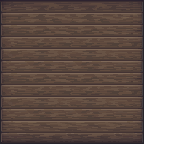
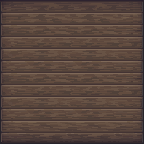
Wall art: vertical wall sprite + stretch-to-fill (parallel session)
These uncommitted edits were sitting in the working tree from a parallel
session focused on tavern art. Committed verbatim at the user's request
(`push everything`) — I did not author them.

  - wall.png: updated horizontal wood-plank texture
  - wall_v.png: new 90°-rotated vertical wall sprite
  - tavern.css: switch .wall-fill from repeat-x to stretch-to-fill; left
    and right walls now use wall_v.png so planks run along each side

(.DS_Store excluded — system junk.)

diff --git a/wayfarers-rest/client/src/styles/tavern.css b/wayfarers-rest/client/src/styles/tavern.css
@@ -46,11 +46,17 @@
 
 /* Wall surface — wood-plank wall texture that gives the wall its mass; the
    beam trim sits on top of it at the outer rim. Rendered behind the corners
-   and edges. Scaled to the wall band's height (--wall-depth) and tiled
-   horizontally so the planks stay at a believable scale. */
+   and edges. Stretched to fully fill each wall band (no tiling) so the
+   image's bright/transparent right edge can't show as gaps. Top and bottom
+   use the horizontal-plank wall.png; left and right use the 90°-rotated
+   wall_v.png so the planks run along the wall's length on every side. */
 .wall-fill {
-  background: url('../assets/tavern/wall.png') repeat-x;
-  background-size: auto 100%;
+  background: url('../assets/tavern/wall.png') center / 100% 100% no-repeat;
+}
+
+.wall-fill-left,
+.wall-fill-right {
+  background-image: url('../assets/tavern/wall_v.png');
 }
 
 .wall-fill-top,
